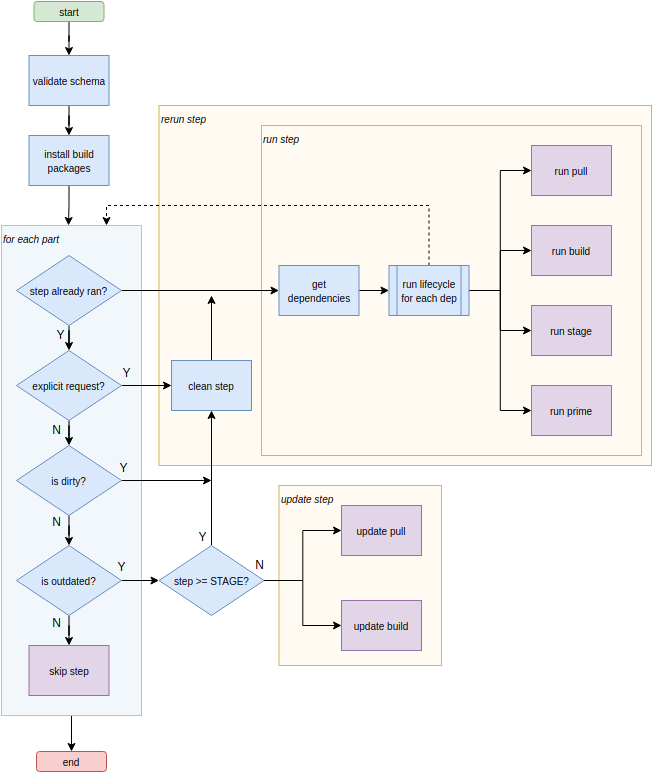
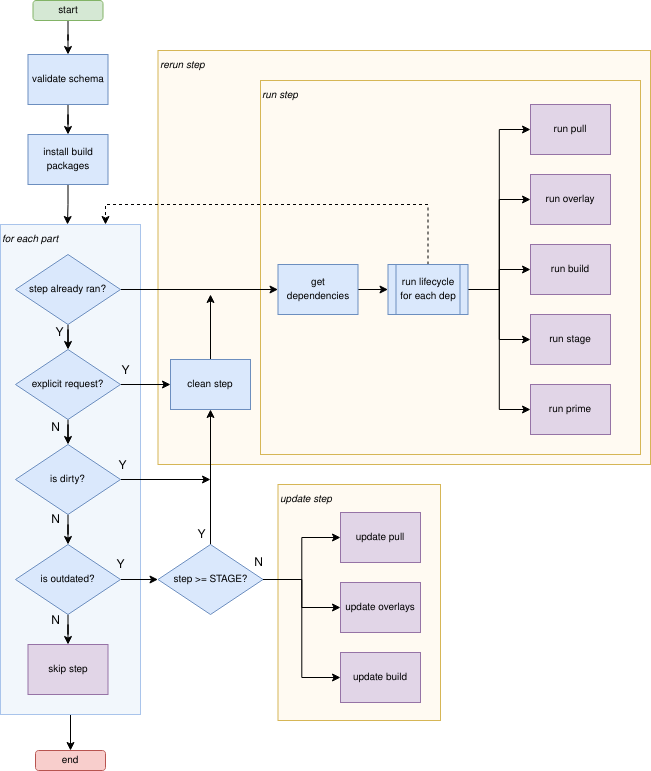
docs: include overlays in the lifecycle documentation.

diff --git a/docs/explanation/lifecycle.rst b/docs/explanation/lifecycle.rst
@@ -2,6 +2,59 @@
 Lifecycle details
 *****************
 
+Each part is built in five separate steps:
+
+#. ``PULL`` — The components for the part are retrieved from their stated
+   location and placed into a package cache area.
+#. ``OVERLAY`` — Any overlay packages are incorporated into the staging area
+   and the overlay script is run. Finally, any overlay filters are applied.
+#. ``BUILD`` — The part is built according to the particular part plugin and
+   build override.
+#. ``STAGE`` — The specified outputs from the ``BUILD`` stage are copied into
+   a unified staging area for all parts.
+#. ``PRIME`` — The specified files are copied from the staging area to the
+   priming area for use in the final project. This is distinct from ``STAGE``
+   in that the ``STAGE`` step allows files that are used in the ``BUILD`` steps
+   of dependent parts to be accessed, while the ``PRIME`` step occurs after all
+   parts have been staged.
+
+Step order
+----------
+
+While each part's steps are guaranteed to run in the order above, they are
+not necessarily run immediately following each other, especially if multiple
+parts are included in a project. While specifics are implementation-dependent,
+the general rules for combining parts are:
+
+#. ``PULL`` all parts before running further steps
+#. ``OVERLAY`` parts in their processing order (defined below).
+#. ``BUILD`` any unbuilt parts whose dependencies have been staged. If a part
+   has no dependencies, this part is built in the first iteration.
+#. ``STAGE`` any newly-built parts.
+#. Repeat the ``BUILD`` and ``STAGE`` steps until all parts have been staged.
+#. ``PRIME`` all parts.
+
+Part Processing Order
+=====================
+
+The processing of various parts is ordered based on dependencies. Circular
+dependencies are not permitted between parts. Parts without dependencies are
+prioritised first. Next priority contains parts that have dependencies met,
+repeated until all parts have an order.
+
+Parts of the same priority should be able to be processed in any order.
+However, because ``OVERLAY`` steps may overwrite the same areas of the file
+system, parts with the same priority are processed alphabetically to
+guarantee deterministic ordering.
+
+Further Information
+-------------------
+
+Further information can be found in the `Snapcraft parts lifecycle documentation
+<snapcraft-parts-lifecycle_>`_.
+
+.. _snapcraft-parts-lifecycle: https://snapcraft.io/docs/parts-lifecycle
+
 Lifecycle processing diagram
 ----------------------------
 
